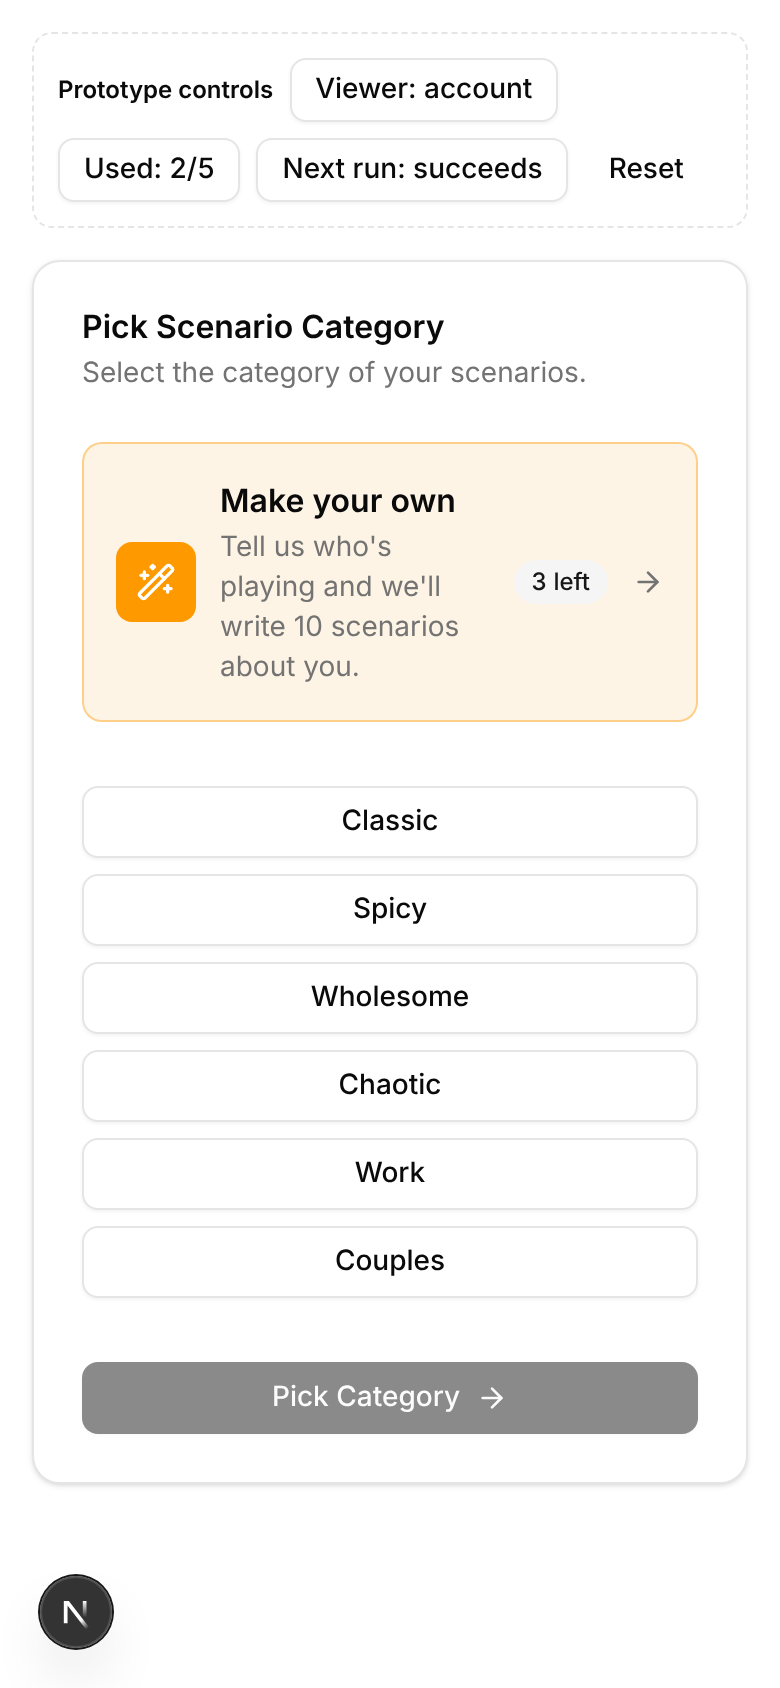
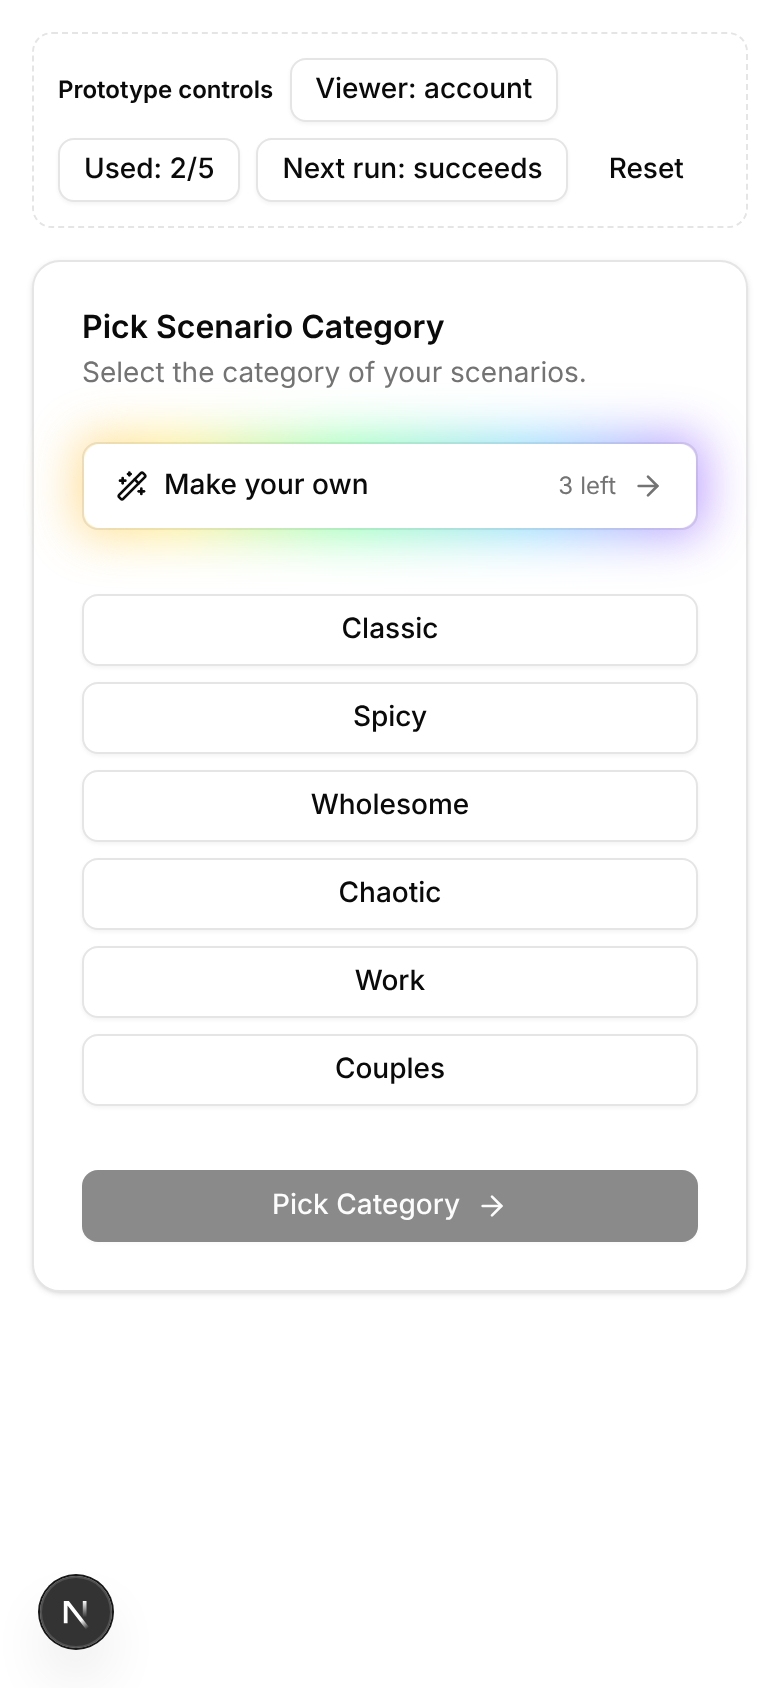
feat(generation): slimmer Make your own tile with a rainbow glow
The tile is now a single row the height of a category button, lit by a
blurred, slowly drifting rainbow behind it rather than a tinted card. The
glow dims for guests and when the month's credits are spent, and stays
still under reduced motion.

Claude-Session: https://claude.ai/code/session_01Q49DxdgcrncxPSdGYWzX1J

diff --git a/components/game/generate-scenarios.tsx b/components/game/generate-scenarios.tsx
@@ -112,32 +112,44 @@ export function MakeYourOwnTile({
       type={"button"}
       onClick={onOpen}
       className={cn(
-        "group relative flex w-full items-center gap-3 rounded-lg border p-4 text-left transition-colors",
-        "border-warning/40 bg-warning/10 hover:bg-warning/15",
+        "group relative isolate flex h-11 w-full items-center gap-2 rounded-md border px-4 text-sm font-medium",
         "focus-visible:ring-ring/50 outline-none focus-visible:ring-[3px]",
-        exhausted && "opacity-70",
       )}
     >
+      {/* The glow: a blurred rainbow behind the tile rather than a border, so
+          it reads as light spilling out. Dimmed once there's nothing to
+          spend, and held still for reduced motion. */}
       <span
-        className={
-          "bg-warning text-white flex size-10 shrink-0 items-center justify-center rounded-md"
-        }
-      >
-        {isGuest ? <Lock className={"size-5"} /> : <WandSparkles className={"size-5"} />}
-      </span>
-      <span className={"flex min-w-0 grow flex-col gap-0.5"}>
-        <span className={"font-semibold"}>Make your own</span>
-        <span className={"text-muted-foreground text-sm"}>
-          {isGuest
-            ? "Create a free account to write scenarios about your group."
-            : "Tell us who's playing and we'll write 10 scenarios about you."}
-        </span>
-      </span>
-      {!isGuest && quota && (
-        <Badge variant={exhausted ? "outline" : "secondary"} className={"tabular-nums"}>
-          {exhausted ? `Resets ${formatReset(quota.resetsAt)}` : `${left} left`}
-        </Badge>
+        aria-hidden
+        className={cn(
+          "absolute -inset-1 -z-10 rounded-lg blur-md transition-opacity",
+          "animate-[rainbow-glow_6s_linear_infinite] motion-reduce:animate-none",
+          isGuest || exhausted
+            ? "opacity-25"
+            : "opacity-60 group-hover:opacity-90",
+        )}
+        style={{
+          backgroundImage:
+            "linear-gradient(90deg, #ff4d4d, #ffa64d, #ffe14d, #4dff88, #4dc3ff, #9b4dff, #ff4dd2, #ff4d4d)",
+          backgroundSize: "200% 100%",
+        }}
+      />
+      {/* The tile's own fill. It can't sit on the button: inside the isolated
+          stacking context a -z child paints over its parent's background, so
+          the glow would show through the face of the tile. */}
+      <span aria-hidden className={"bg-card absolute inset-0 -z-10 rounded-md"} />
+      {isGuest ? (
+        <Lock className={"size-4"} />
+      ) : (
+        <WandSparkles className={"size-4"} />
       )}
+      <span className={"grow text-left"}>Make your own</span>
+      <span className={"text-muted-foreground text-xs font-normal tabular-nums"}>
+        {isGuest
+          ? "Needs an account"
+          : quota &&
+            (exhausted ? `Resets ${formatReset(quota.resetsAt)}` : `${left} left`)}
+      </span>
       <ArrowRight
         className={
           "text-muted-foreground size-4 shrink-0 transition-transform group-hover:translate-x-0.5"

diff --git a/app/globals.css b/app/globals.css
@@ -128,3 +128,15 @@
     @apply bg-background text-foreground;
   }
 }
+
+/* Slides the rainbow behind the "Make your own" tile so the glow drifts
+   through the colours. The gradient repeats at 200% width, so a full slide
+   loops seamlessly. */
+@keyframes rainbow-glow {
+  from {
+    background-position: 0% 50%;
+  }
+  to {
+    background-position: 200% 50%;
+  }
+}

diff --git a/docs/user-scenario-generation/README.md b/docs/user-scenario-generation/README.md
@@ -168,13 +168,13 @@ The flow, all on the host's existing card:
 
 | | |
 |---|---|
-| **1. Category screen.** A "Make your own" tile sits above the existing category grid, with a "3 left" badge. | ![](1-categories.png) |
+| **1. Category screen.** A "Make your own" tile, the same height as the category buttons, sits above them with an animated rainbow glow behind it and "3 left" on the right. The glow dims when there are no credits left or the host is a guest, and holds still for reduced motion. | ![](1-categories.png) |
 | **2. Compose.** The host writes a ≤200-character theme (with quick-pick idea chips) and can pick a tone, which reuses the existing categories so their admin briefs steer the model. The meter shows credits left and the reset date. | ![](2-compose.png) |
 | **3. Generating.** 10 numbered slots fill in as each scenario arrives. The main button reads "Writing 4 of 10…". | ![](3-generating.png) |
 | **4. Review.** "Use these scenarios" moves to the normal pick-scenario screen. Re-roll asks for confirmation because it costs a credit. | ![](4-review.png) |
-| **5. Out of credits.** The tile shows "Resets 1 Nov". Opening it explains why and points back to the categories. | ![](5-exhausted.png) |
+| **5. Out of credits.** The tile shows "Resets 1 Nov" with a dimmed glow. Opening it explains why and points back to the categories. | ![](5-exhausted.png) |
 | **6. Failure.** The error says the run was refunded, and the host's text stays in place for a retry. | ![](6-error.png) |
-| **7. Guest host.** The tile is locked and leads to `/sign-in?tab=sign-up&next=/game/CODE`. | ![](7-guest.png) |
+| **7. Guest host.** The tile shows a lock, "Needs an account" and a dimmed glow, and leads to `/sign-in?tab=sign-up&next=/game/CODE`. | ![](7-guest.png) |
 
 To run it: `pnpm dev`, then open `/prototype/generate-scenarios`.
 
